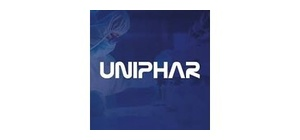
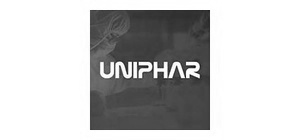
fix: tenta corrigir fundo escuro em Uniphar e Bioscie

Changed region(s): [[0.3, 0.0571, 0.72, 0.9429]]

diff --git a/index.html b/index.html
@@ -35,7 +35,7 @@
       onload="this.media='all'"
     />
     <noscript><link href="https://fonts.googleapis.com/css2?family=Inter:wght@400;500;600;700&display=swap" rel="stylesheet" /></noscript>
-    <link rel="stylesheet" href="styles.css?v=1770406718" />
+    <link rel="stylesheet" href="styles.css?v=1770407026" />
     <link rel="preload" as="image" href="banner_hero1.webp" type="image/webp" />
     <link rel="preload" as="image" href="banner_hero1.jpg" type="image/jpeg" />
     <link rel="preload" as="image" href="Logomarca.png" type="image/png" />
@@ -328,40 +328,40 @@
         </div>
         <div class="clients__grid">
           <div class="client-logo" title="Geolab">
-            <img src="clientes/geolab.jpg?v=1770406692" alt="Geolab" loading="lazy" />
+            <img src="clientes/geolab.jpg?v=1770407026" alt="Geolab" loading="lazy" />
           </div>
           <div class="client-logo" title="Brainfarma">
-            <img src="clientes/brainfarma.jpg?v=1770406692" alt="Brainfarma" loading="lazy" />
+            <img src="clientes/brainfarma.jpg?v=1770407026" alt="Brainfarma" loading="lazy" />
           </div>
           <div class="client-logo" title="Hypera">
-            <img src="clientes/hypera.jpg?v=1770406692" alt="Hypera" loading="lazy" />
+            <img src="clientes/hypera.jpg?v=1770407026" alt="Hypera" loading="lazy" />
           </div>
           <div class="client-logo" title="Teuto">
-            <img src="clientes/teuto.jpg?v=1770406692" alt="Teuto" loading="lazy" />
+            <img src="clientes/teuto.jpg?v=1770407026" alt="Teuto" loading="lazy" />
           </div>
           <div class="client-logo" title="JRD Uniphar">
-            <img src="clientes/jrd.jpg?v=1770406692" alt="JRD Uniphar" loading="lazy" />
+            <img src="clientes/jrd.jpg?v=1770407026" alt="JRD Uniphar" loading="lazy" />
           </div>
           <div class="client-logo" title="JA Saúde Animal">
-            <img src="clientes/ja-saude.jpg?v=1770406692" alt="JA Saúde Animal" loading="lazy" />
+            <img src="clientes/ja-saude.jpg?v=1770407026" alt="JA Saúde Animal" loading="lazy" />
           </div>
           <div class="client-logo" title="Medquímica">
-            <img src="clientes/medquimica.jpg?v=1770406692" alt="Medquímica" loading="lazy" />
+            <img src="clientes/medquimica.jpg?v=1770407026" alt="Medquímica" loading="lazy" />
           </div>
           <div class="client-logo" title="Laboratório Globo">
-            <img src="clientes/lab-globo.jpg?v=1770406692" alt="Laboratório Globo" loading="lazy" />
+            <img src="clientes/lab-globo.jpg?v=1770407026" alt="Laboratório Globo" loading="lazy" />
           </div>
           <div class="client-logo" title="Bioscie">
-            <img src="clientes/bioscie.jpg?v=1770406692" alt="Bioscie" loading="lazy" />
+            <img src="clientes/bioscie.jpg?v=1770407026" alt="Bioscie" loading="lazy" />
           </div>
           <div class="client-logo" title="UFG">
-            <img src="clientes/ufg.jpg?v=1770406692" alt="UFG" loading="lazy" />
+            <img src="clientes/ufg.jpg?v=1770407026" alt="UFG" loading="lazy" />
           </div>
           <div class="client-logo" title="Banco do Brasil">
-            <img src="clientes/bb.jpg?v=1770406692" alt="Banco do Brasil" loading="lazy" />
+            <img src="clientes/bb.jpg?v=1770407026" alt="Banco do Brasil" loading="lazy" />
           </div>
           <div class="client-logo" title="Halexistar">
-            <img src="clientes/halexistar.jpg?v=1770406692" alt="Halexistar" loading="lazy" />
+            <img src="clientes/halexistar.jpg?v=1770407026" alt="Halexistar" loading="lazy" />
           </div>
         </div>
       </div>
